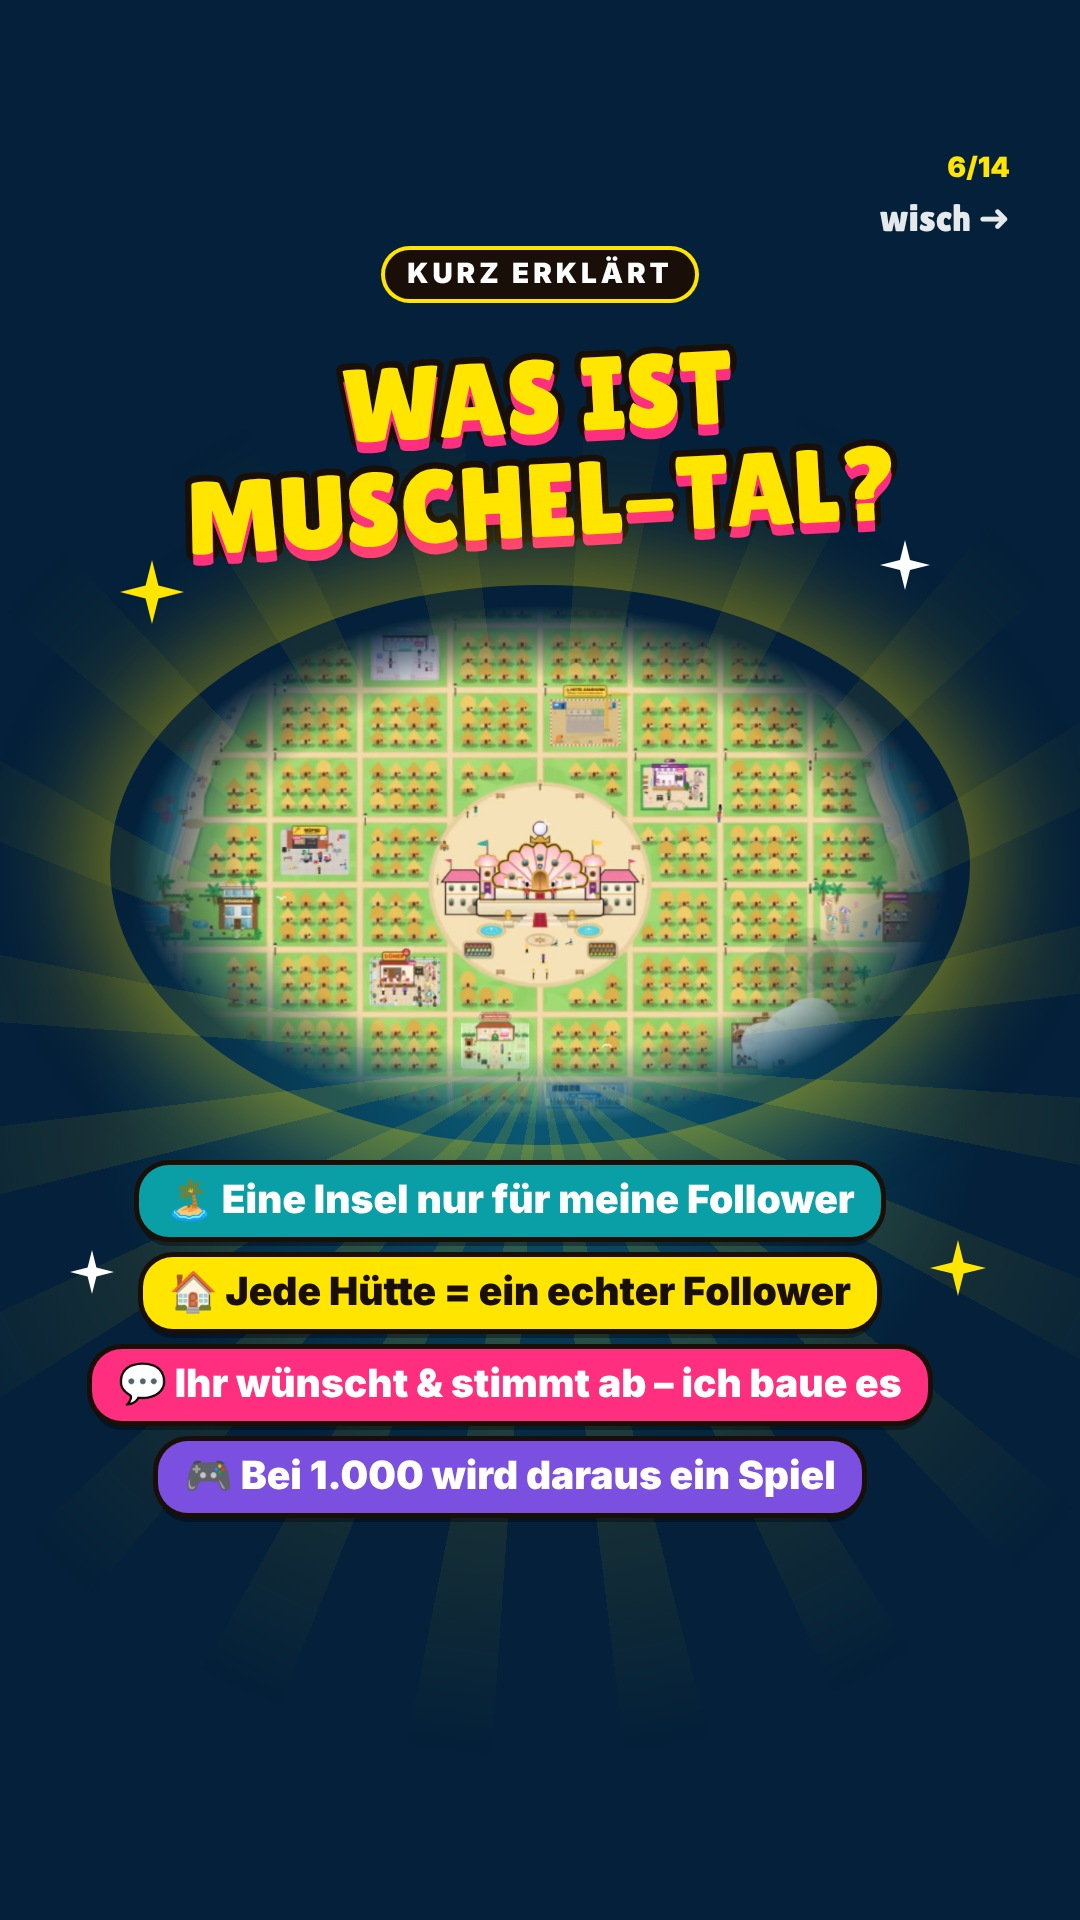
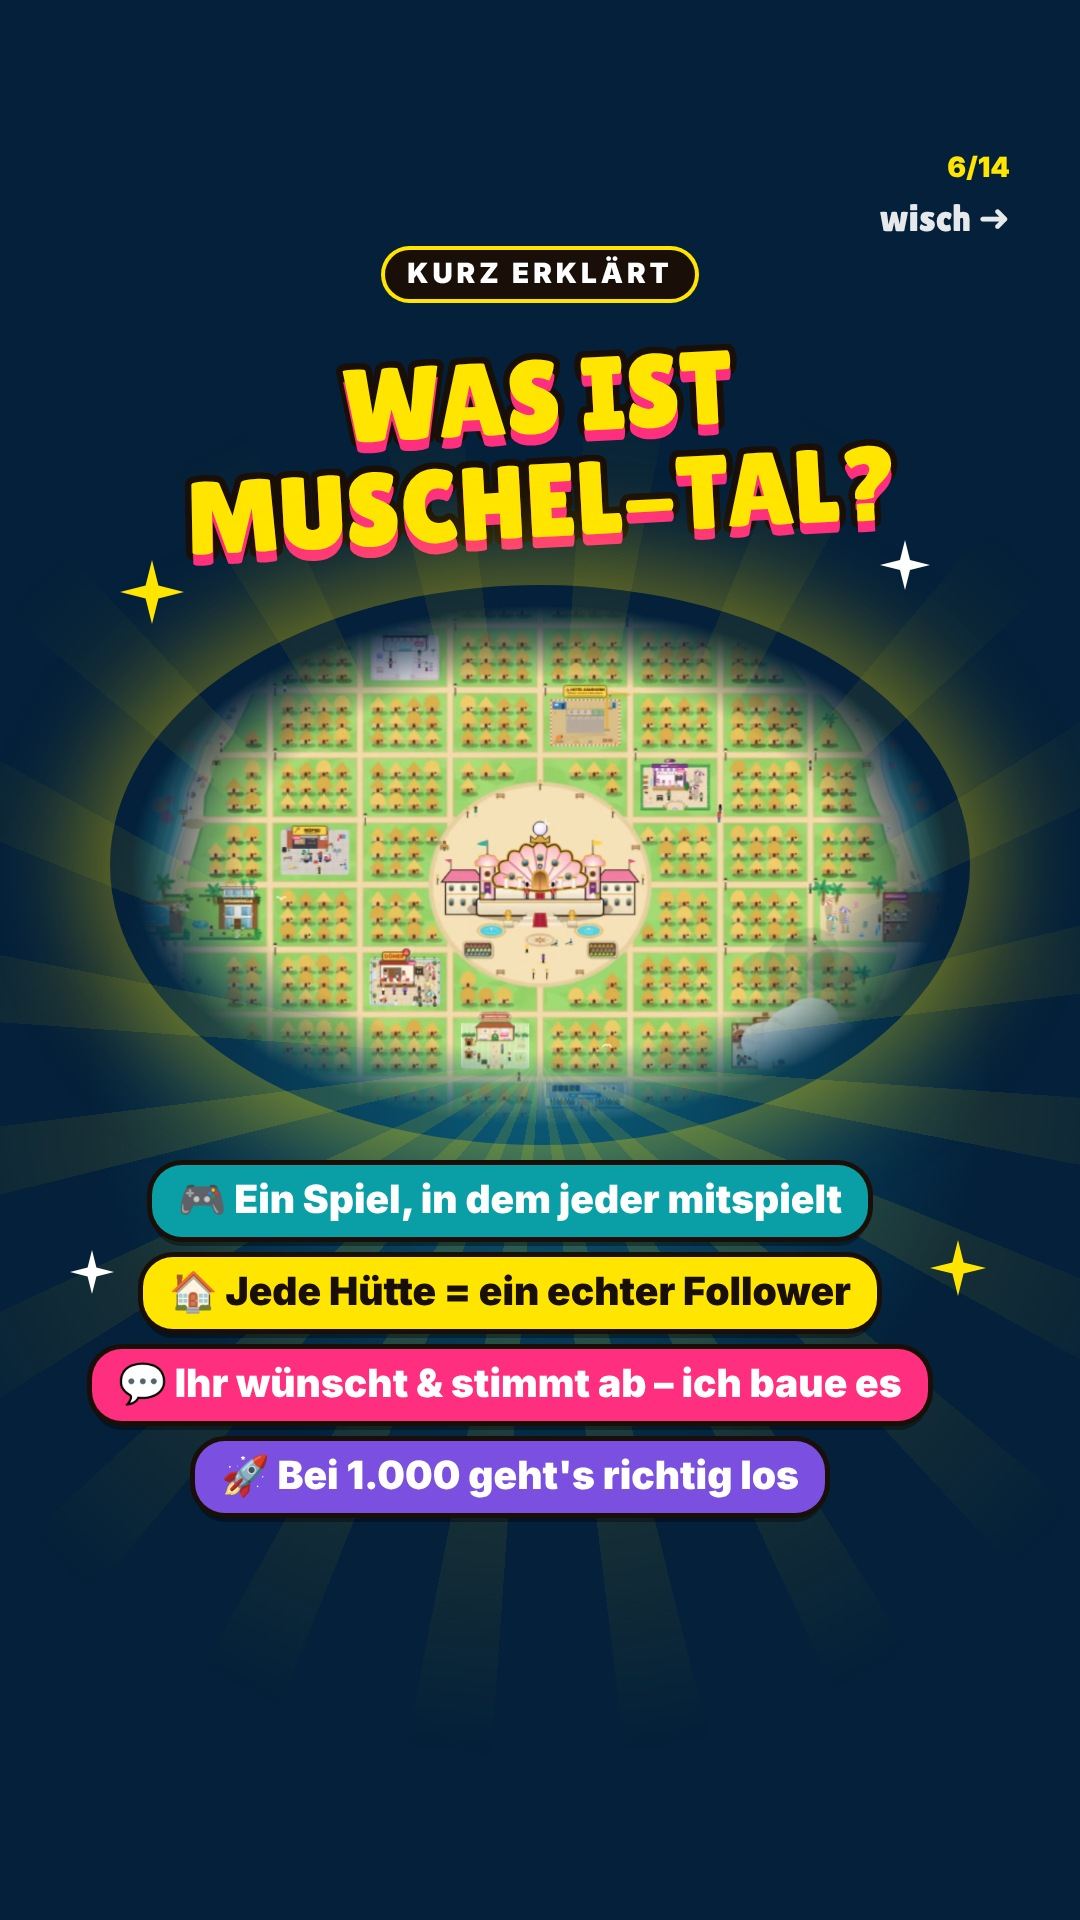
Galerie: Spiel für alle schon ab Folie 1 betont
Claude-Session: https://claude.ai/code/session_01McNdgWwqfWZ56Gqk3h71JF

diff --git a/videos/muscheltal-galerie-spiel/seite_02.html b/videos/muscheltal-galerie-spiel/seite_02.html
@@ -37,4 +37,4 @@ body{width:1080px;height:1920px;overflow:hidden;position:relative;background:#04
 .ok{position:absolute;left:0;right:0;margin:0 auto;width:fit-content;padding:8px 30px 12px;border-radius:36px;background:#00b86b;color:#fff;font-family:L;font-size:62px;box-shadow:0 0 0 6px #1a0f08,0 10px 0 rgba(0,0,0,.35);transform:rotate(-3deg);white-space:nowrap}
 .col{position:absolute;width:440px}.col .cm{position:relative;left:0;right:0;margin-bottom:20px}.col .bld{position:relative;left:0;width:440px;height:520px}.col .ok{position:relative;font-size:44px;margin-top:-30px}
 #ring{position:absolute;left:110px;width:860px;top:720px;height:620px;border-radius:50%;box-shadow:0 0 90px 30px rgba(255,229,0,.35)}
-</style></head><body><div id="spot"></div><div id="rays"></div><div id="nr">2/14</div><div id="swipe">wisch ➜</div><div id="ep" class="pill" style="top:250px">SO FUNKTIONIERT'S</div><div id="hd" class="pill" style="top:335px">IHR GESTALTET DAS LEBEN:</div><div id="big" style="top:425px;font-size:104px">IHR<br>ENTSCHEIDET</div><div id="ring" style="top:665px;height:480px"></div><div id="cardb" style="top:685px;height:440px;background-image:url(bilder/karte.jpg)"></div><div id="chips" style="top:1175px;gap:22px"><div class="c ye" style="font-family:L;font-weight:400;font-size:60px;transform:rotate(-3deg)">💼 JOBS</div><div class="c pk" style="font-family:L;font-weight:400;font-size:60px;transform:rotate(2deg)">🏗 GEBÄUDE</div><div class="c tq" style="font-family:L;font-weight:400;font-size:60px;transform:rotate(-2deg)">🏝 NEUE INSELN</div><div class="c vi" style="font-family:L;font-weight:400;font-size:60px;transform:rotate(3deg)">🎉 EVENTS</div><div class="c gr" style="font-family:L;font-weight:400;font-size:60px;transform:rotate(-1deg)">🐾 TIERE</div></div><div class="ok" style="top:1560px;font-size:50px">👇 SO SIEHT DAS AUS</div><svg class="sp" style="left:120px;top:560px;width:64px" viewBox="-10 -10 20 20"><path d="M0 -10 L2 -2 L10 0 L2 2 L0 10 L-2 2 L-10 0 L-2 -2Z" fill="#ffe500"/></svg><svg class="sp" style="left:880px;top:540px;width:50px" viewBox="-10 -10 20 20"><path d="M0 -10 L2 -2 L10 0 L2 2 L0 10 L-2 2 L-10 0 L-2 -2Z" fill="#fff"/></svg><svg class="sp" style="left:70px;top:1250px;width:44px" viewBox="-10 -10 20 20"><path d="M0 -10 L2 -2 L10 0 L2 2 L0 10 L-2 2 L-10 0 L-2 -2Z" fill="#fff"/></svg><svg class="sp" style="left:930px;top:1240px;width:56px" viewBox="-10 -10 20 20"><path d="M0 -10 L2 -2 L10 0 L2 2 L0 10 L-2 2 L-10 0 L-2 -2Z" fill="#ffe500"/></svg></body></html>
+</style></head><body><div id="spot"></div><div id="rays"></div><div id="nr">2/14</div><div id="swipe">wisch ➜</div><div id="ep" class="pill" style="top:250px">SO FUNKTIONIERT'S</div><div id="hd" class="pill" style="top:335px">IN DIESEM SPIEL GILT:</div><div id="big" style="top:425px;font-size:104px">IHR<br>ENTSCHEIDET</div><div id="ring" style="top:665px;height:480px"></div><div id="cardb" style="top:685px;height:440px;background-image:url(bilder/karte.jpg)"></div><div id="chips" style="top:1175px;gap:22px"><div class="c ye" style="font-family:L;font-weight:400;font-size:60px;transform:rotate(-3deg)">💼 JOBS</div><div class="c pk" style="font-family:L;font-weight:400;font-size:60px;transform:rotate(2deg)">🏗 GEBÄUDE</div><div class="c tq" style="font-family:L;font-weight:400;font-size:60px;transform:rotate(-2deg)">🏝 NEUE INSELN</div><div class="c vi" style="font-family:L;font-weight:400;font-size:60px;transform:rotate(3deg)">🎉 EVENTS</div><div class="c gr" style="font-family:L;font-weight:400;font-size:60px;transform:rotate(-1deg)">🐾 TIERE</div></div><div class="ok" style="top:1560px;font-size:50px">👇 SO SIEHT DAS AUS</div><svg class="sp" style="left:120px;top:560px;width:64px" viewBox="-10 -10 20 20"><path d="M0 -10 L2 -2 L10 0 L2 2 L0 10 L-2 2 L-10 0 L-2 -2Z" fill="#ffe500"/></svg><svg class="sp" style="left:880px;top:540px;width:50px" viewBox="-10 -10 20 20"><path d="M0 -10 L2 -2 L10 0 L2 2 L0 10 L-2 2 L-10 0 L-2 -2Z" fill="#fff"/></svg><svg class="sp" style="left:70px;top:1250px;width:44px" viewBox="-10 -10 20 20"><path d="M0 -10 L2 -2 L10 0 L2 2 L0 10 L-2 2 L-10 0 L-2 -2Z" fill="#fff"/></svg><svg class="sp" style="left:930px;top:1240px;width:56px" viewBox="-10 -10 20 20"><path d="M0 -10 L2 -2 L10 0 L2 2 L0 10 L-2 2 L-10 0 L-2 -2Z" fill="#ffe500"/></svg></body></html>

diff --git a/videos/muscheltal-galerie-spiel/seite_06.html b/videos/muscheltal-galerie-spiel/seite_06.html
@@ -37,4 +37,4 @@ body{width:1080px;height:1920px;overflow:hidden;position:relative;background:#04
 .ok{position:absolute;left:0;right:0;margin:0 auto;width:fit-content;padding:8px 30px 12px;border-radius:36px;background:#00b86b;color:#fff;font-family:L;font-size:62px;box-shadow:0 0 0 6px #1a0f08,0 10px 0 rgba(0,0,0,.35);transform:rotate(-3deg);white-space:nowrap}
 .col{position:absolute;width:440px}.col .cm{position:relative;left:0;right:0;margin-bottom:20px}.col .bld{position:relative;left:0;width:440px;height:520px}.col .ok{position:relative;font-size:44px;margin-top:-30px}
 #ring{position:absolute;left:110px;width:860px;top:720px;height:620px;border-radius:50%;box-shadow:0 0 90px 30px rgba(255,229,0,.35)}
-</style></head><body><div id="spot"></div><div id="rays"></div><div id="nr">6/14</div><div id="swipe">wisch ➜</div><div id="ep" class="pill" style="top:250px">KURZ ERKLÄRT</div><div id="big" style="top:345px;font-size:104px">WAS IST<br>MUSCHEL-TAL?</div><div id="ring" style="top:585px;height:560px"></div><div id="cardb" style="top:605px;height:520px;background-image:url(bilder/insel.jpg)"></div><div id="chips" style="top:1165px;flex-direction:column;align-items:center;gap:20px"><div class="c tq" style="font-size:39px;white-space:nowrap">🏝 Eine Insel nur für meine Follower</div><div class="c ye" style="font-size:39px;white-space:nowrap">🏠 Jede Hütte = ein echter Follower</div><div class="c pk" style="font-size:39px;white-space:nowrap">💬 Ihr wünscht & stimmt ab – ich baue es</div><div class="c vi" style="font-size:39px;white-space:nowrap">🎮 Bei 1.000 wird daraus ein Spiel</div></div><svg class="sp" style="left:120px;top:560px;width:64px" viewBox="-10 -10 20 20"><path d="M0 -10 L2 -2 L10 0 L2 2 L0 10 L-2 2 L-10 0 L-2 -2Z" fill="#ffe500"/></svg><svg class="sp" style="left:880px;top:540px;width:50px" viewBox="-10 -10 20 20"><path d="M0 -10 L2 -2 L10 0 L2 2 L0 10 L-2 2 L-10 0 L-2 -2Z" fill="#fff"/></svg><svg class="sp" style="left:70px;top:1250px;width:44px" viewBox="-10 -10 20 20"><path d="M0 -10 L2 -2 L10 0 L2 2 L0 10 L-2 2 L-10 0 L-2 -2Z" fill="#fff"/></svg><svg class="sp" style="left:930px;top:1240px;width:56px" viewBox="-10 -10 20 20"><path d="M0 -10 L2 -2 L10 0 L2 2 L0 10 L-2 2 L-10 0 L-2 -2Z" fill="#ffe500"/></svg></body></html>
+</style></head><body><div id="spot"></div><div id="rays"></div><div id="nr">6/14</div><div id="swipe">wisch ➜</div><div id="ep" class="pill" style="top:250px">KURZ ERKLÄRT</div><div id="big" style="top:345px;font-size:104px">WAS IST<br>MUSCHEL-TAL?</div><div id="ring" style="top:585px;height:560px"></div><div id="cardb" style="top:605px;height:520px;background-image:url(bilder/insel.jpg)"></div><div id="chips" style="top:1165px;flex-direction:column;align-items:center;gap:20px"><div class="c tq" style="font-size:39px;white-space:nowrap">🎮 Ein Spiel, in dem jeder mitspielt</div><div class="c ye" style="font-size:39px;white-space:nowrap">🏠 Jede Hütte = ein echter Follower</div><div class="c pk" style="font-size:39px;white-space:nowrap">💬 Ihr wünscht & stimmt ab – ich baue es</div><div class="c vi" style="font-size:39px;white-space:nowrap">🚀 Bei 1.000 geht's richtig los</div></div><svg class="sp" style="left:120px;top:560px;width:64px" viewBox="-10 -10 20 20"><path d="M0 -10 L2 -2 L10 0 L2 2 L0 10 L-2 2 L-10 0 L-2 -2Z" fill="#ffe500"/></svg><svg class="sp" style="left:880px;top:540px;width:50px" viewBox="-10 -10 20 20"><path d="M0 -10 L2 -2 L10 0 L2 2 L0 10 L-2 2 L-10 0 L-2 -2Z" fill="#fff"/></svg><svg class="sp" style="left:70px;top:1250px;width:44px" viewBox="-10 -10 20 20"><path d="M0 -10 L2 -2 L10 0 L2 2 L0 10 L-2 2 L-10 0 L-2 -2Z" fill="#fff"/></svg><svg class="sp" style="left:930px;top:1240px;width:56px" viewBox="-10 -10 20 20"><path d="M0 -10 L2 -2 L10 0 L2 2 L0 10 L-2 2 L-10 0 L-2 -2Z" fill="#ffe500"/></svg></body></html>

diff --git a/videos/muscheltal-galerie-spiel/seite_01.html b/videos/muscheltal-galerie-spiel/seite_01.html
@@ -37,4 +37,4 @@ body{width:1080px;height:1920px;overflow:hidden;position:relative;background:#04
 .ok{position:absolute;left:0;right:0;margin:0 auto;width:fit-content;padding:8px 30px 12px;border-radius:36px;background:#00b86b;color:#fff;font-family:L;font-size:62px;box-shadow:0 0 0 6px #1a0f08,0 10px 0 rgba(0,0,0,.35);transform:rotate(-3deg);white-space:nowrap}
 .col{position:absolute;width:440px}.col .cm{position:relative;left:0;right:0;margin-bottom:20px}.col .bld{position:relative;left:0;width:440px;height:520px}.col .ok{position:relative;font-size:44px;margin-top:-30px}
 #ring{position:absolute;left:110px;width:860px;top:720px;height:620px;border-radius:50%;box-shadow:0 0 90px 30px rgba(255,229,0,.35)}
-</style></head><body><div id="spot"></div><div id="rays"></div><div id="nr">1/14</div><div id="ep" class="pill" style="top:180px;font-size:40px;padding:10px 30px 13px;background:#ff2e7e;box-shadow:0 0 0 5px #fff">🔴 SENSATION</div><div id="mega2" style="top:310px;font-size:156px;line-height:.95">EINZIGARTIG<br>AUF TIKTOK</div><div id="ring" style="top:760px"></div><div id="cardb" style="top:780px;background-image:url(bilder/insel.jpg)"></div><div class="stampx" style="left:0;right:0;margin:0 auto;width:fit-content;top:1250px;transform:rotate(-3deg);font-size:64px;text-align:center;line-height:1.05;white-space:normal">WILLST DU TEIL VON<br>ETWAS GROSSEM SEIN?</div><div id="chips" style="top:1530px"><div class="c ye" style="font-size:48px">NEUGIERIG GEWORDEN? SWIPE ➜</div></div><svg class="sp" style="left:120px;top:560px;width:64px" viewBox="-10 -10 20 20"><path d="M0 -10 L2 -2 L10 0 L2 2 L0 10 L-2 2 L-10 0 L-2 -2Z" fill="#ffe500"/></svg><svg class="sp" style="left:880px;top:540px;width:50px" viewBox="-10 -10 20 20"><path d="M0 -10 L2 -2 L10 0 L2 2 L0 10 L-2 2 L-10 0 L-2 -2Z" fill="#fff"/></svg><svg class="sp" style="left:70px;top:1250px;width:44px" viewBox="-10 -10 20 20"><path d="M0 -10 L2 -2 L10 0 L2 2 L0 10 L-2 2 L-10 0 L-2 -2Z" fill="#fff"/></svg><svg class="sp" style="left:930px;top:1240px;width:56px" viewBox="-10 -10 20 20"><path d="M0 -10 L2 -2 L10 0 L2 2 L0 10 L-2 2 L-10 0 L-2 -2Z" fill="#ffe500"/></svg></body></html>
+</style></head><body><div id="spot"></div><div id="rays"></div><div id="nr">1/14</div><div id="ep" class="pill" style="top:180px;font-size:40px;padding:10px 30px 13px;background:#ff2e7e;box-shadow:0 0 0 5px #fff">🔴 SENSATION</div><div class="pill" style="top:660px;padding:10px 32px 14px;font-size:44px;background:#7b4fe0;box-shadow:0 0 0 5px #1a0f08;transform:rotate(2deg)">🎮 EIN SPIEL – UND JEDER KANN MITSPIELEN</div><div id="mega2" style="top:310px;font-size:156px;line-height:.95">EINZIGARTIG<br>AUF TIKTOK</div><div id="ring" style="top:790px"></div><div id="cardb" style="top:810px;background-image:url(bilder/insel.jpg)"></div><div class="stampx" style="left:0;right:0;margin:0 auto;width:fit-content;top:1250px;transform:rotate(-3deg);font-size:64px;text-align:center;line-height:1.05;white-space:normal">WILLST DU TEIL VON<br>ETWAS GROSSEM SEIN?</div><div id="chips" style="top:1530px"><div class="c ye" style="font-size:48px">NEUGIERIG GEWORDEN? SWIPE ➜</div></div><svg class="sp" style="left:120px;top:560px;width:64px" viewBox="-10 -10 20 20"><path d="M0 -10 L2 -2 L10 0 L2 2 L0 10 L-2 2 L-10 0 L-2 -2Z" fill="#ffe500"/></svg><svg class="sp" style="left:880px;top:540px;width:50px" viewBox="-10 -10 20 20"><path d="M0 -10 L2 -2 L10 0 L2 2 L0 10 L-2 2 L-10 0 L-2 -2Z" fill="#fff"/></svg><svg class="sp" style="left:70px;top:1250px;width:44px" viewBox="-10 -10 20 20"><path d="M0 -10 L2 -2 L10 0 L2 2 L0 10 L-2 2 L-10 0 L-2 -2Z" fill="#fff"/></svg><svg class="sp" style="left:930px;top:1240px;width:56px" viewBox="-10 -10 20 20"><path d="M0 -10 L2 -2 L10 0 L2 2 L0 10 L-2 2 L-10 0 L-2 -2Z" fill="#ffe500"/></svg></body></html>

diff --git a/videos/muscheltal-galerie-spiel/galerie.py b/videos/muscheltal-galerie-spiel/galerie.py
@@ -1,7 +1,7 @@
 # TikTok-Foto-Galerie „Spiel ab 1.000“ – Look wie Cover Tag 1 (dunkelblau, Strahlen, gelbe Schrift, Karten)
 S = [
  dict(first=True),
- dict(liste=[("ye","💼 JOBS"),("pk","🏗 GEBÄUDE"),("tq","🏝 NEUE INSELN"),("vi","🎉 EVENTS"),("gr","🐾 TIERE")], eyebrow="SO FUNKTIONIERT'S", head="IHR GESTALTET DAS LEBEN:", big="IHR<br>ENTSCHEIDET"),
+ dict(liste=[("ye","💼 JOBS"),("pk","🏗 GEBÄUDE"),("tq","🏝 NEUE INSELN"),("vi","🎉 EVENTS"),("gr","🐾 TIERE")], eyebrow="SO FUNKTIONIERT'S", head="IN DIESEM SPIEL GILT:", big="IHR<br>ENTSCHEIDET"),
  dict(pair=("kommentare/marie_comment.jpg","w_yacht"), eyebrow="DEIN WUNSCH WIRD WAHR", big="DU WILLST<br>EINE YACHT?", stamp="✅ MARIE HAT JETZT IHRE YACHT"),
  dict(pair=("kommentare/cmt_club.jpg","w_clubnacht"), eyebrow="DEIN WUNSCH WIRD WAHR", big="DU WILLST<br>EINEN CLUB?", stamp="✅ GEBAUT – BESITZER VERLOST"),
  dict(pair2=[("kommentare/cmt_drog.jpg","w_drog","✅ CocoCare"),("kommentare/sophia_amtshandlung.jpg","w_doener","✅ Döner 2 €")], eyebrow="UND NOCH MEHR", big="IHR WÜNSCHT –<br>ES PASSIERT"),
@@ -61,9 +61,9 @@ for i, s in enumerate(S, 1):
     body = f'<div id="spot"></div><div id="rays"></div><div id="nr">{i}/{len(S)}</div>'
     if not s.get("last") and not s.get("first"): body += '<div id="swipe">wisch ➜</div>'
     if s.get("first"):
-        body += '<div id="ep" class="pill" style="top:180px;font-size:40px;padding:10px 30px 13px;background:#ff2e7e;box-shadow:0 0 0 5px #fff">🔴 SENSATION</div>'
+        body += '<div id="ep" class="pill" style="top:180px;font-size:40px;padding:10px 30px 13px;background:#ff2e7e;box-shadow:0 0 0 5px #fff">🔴 SENSATION</div><div class="pill" style="top:660px;padding:10px 32px 14px;font-size:44px;background:#7b4fe0;box-shadow:0 0 0 5px #1a0f08;transform:rotate(2deg)">🎮 EIN SPIEL – UND JEDER KANN MITSPIELEN</div>'
         body += '<div id="mega2" style="top:310px;font-size:156px;line-height:.95">EINZIGARTIG<br>AUF TIKTOK</div>'
-        body += '<div id="ring" style="top:760px"></div><div id="cardb" style="top:780px;background-image:url(bilder/insel.jpg)"></div>'
+        body += '<div id="ring" style="top:790px"></div><div id="cardb" style="top:810px;background-image:url(bilder/insel.jpg)"></div>'
         body += '<div class="stampx" style="left:0;right:0;margin:0 auto;width:fit-content;top:1250px;transform:rotate(-3deg);font-size:64px;text-align:center;line-height:1.05;white-space:normal">WILLST DU TEIL VON<br>ETWAS GROSSEM SEIN?</div>'
         body += '<div id="chips" style="top:1530px"><div class="c ye" style="font-size:48px">NEUGIERIG GEWORDEN? SWIPE ➜</div></div>'
     else:
@@ -84,7 +84,7 @@ for i, s in enumerate(S, 1):
             body += '<div class="ok" style="top:1560px;font-size:50px">👇 SO SIEHT DAS AUS</div>'
         elif s.get("what"):
             body += f'<div id="ring" style="top:{y0+10}px;height:560px"></div><div id="cardb" style="top:{y0+30}px;height:520px;background-image:url(bilder/insel.jpg)"></div>'
-            body += f'<div id="chips" style="top:{y0+590}px;flex-direction:column;align-items:center;gap:20px">' + "".join(f'<div class="c {c}" style="font-size:39px;white-space:nowrap">{t}</div>' for c, t in [("tq","🏝 Eine Insel nur für meine Follower"),("ye","🏠 Jede Hütte = ein echter Follower"),("pk","💬 Ihr wünscht & stimmt ab – ich baue es"),("vi","🎮 Bei 1.000 wird daraus ein Spiel")]) + '</div>'
+            body += f'<div id="chips" style="top:{y0+590}px;flex-direction:column;align-items:center;gap:20px">' + "".join(f'<div class="c {c}" style="font-size:39px;white-space:nowrap">{t}</div>' for c, t in [("tq","🎮 Ein Spiel, in dem jeder mitspielt"),("ye","🏠 Jede Hütte = ein echter Follower"),("pk","💬 Ihr wünscht & stimmt ab – ich baue es"),("vi","🚀 Bei 1.000 geht\'s richtig los")]) + '</div>'
         elif s.get("pair2"):
             for k, (c, im, t) in enumerate(s["pair2"]):
                 body += f'<div class="col" style="left:{70+k*480}px;top:{y0+20}px;transform:rotate({(-1.5,1.5)[k]}deg)"><div class="cm"><img src="bilder/{c}"></div><div class="bld" style="background-image:url(bilder/{im}.jpg)"></div><div class="ok">{t}</div></div>'
